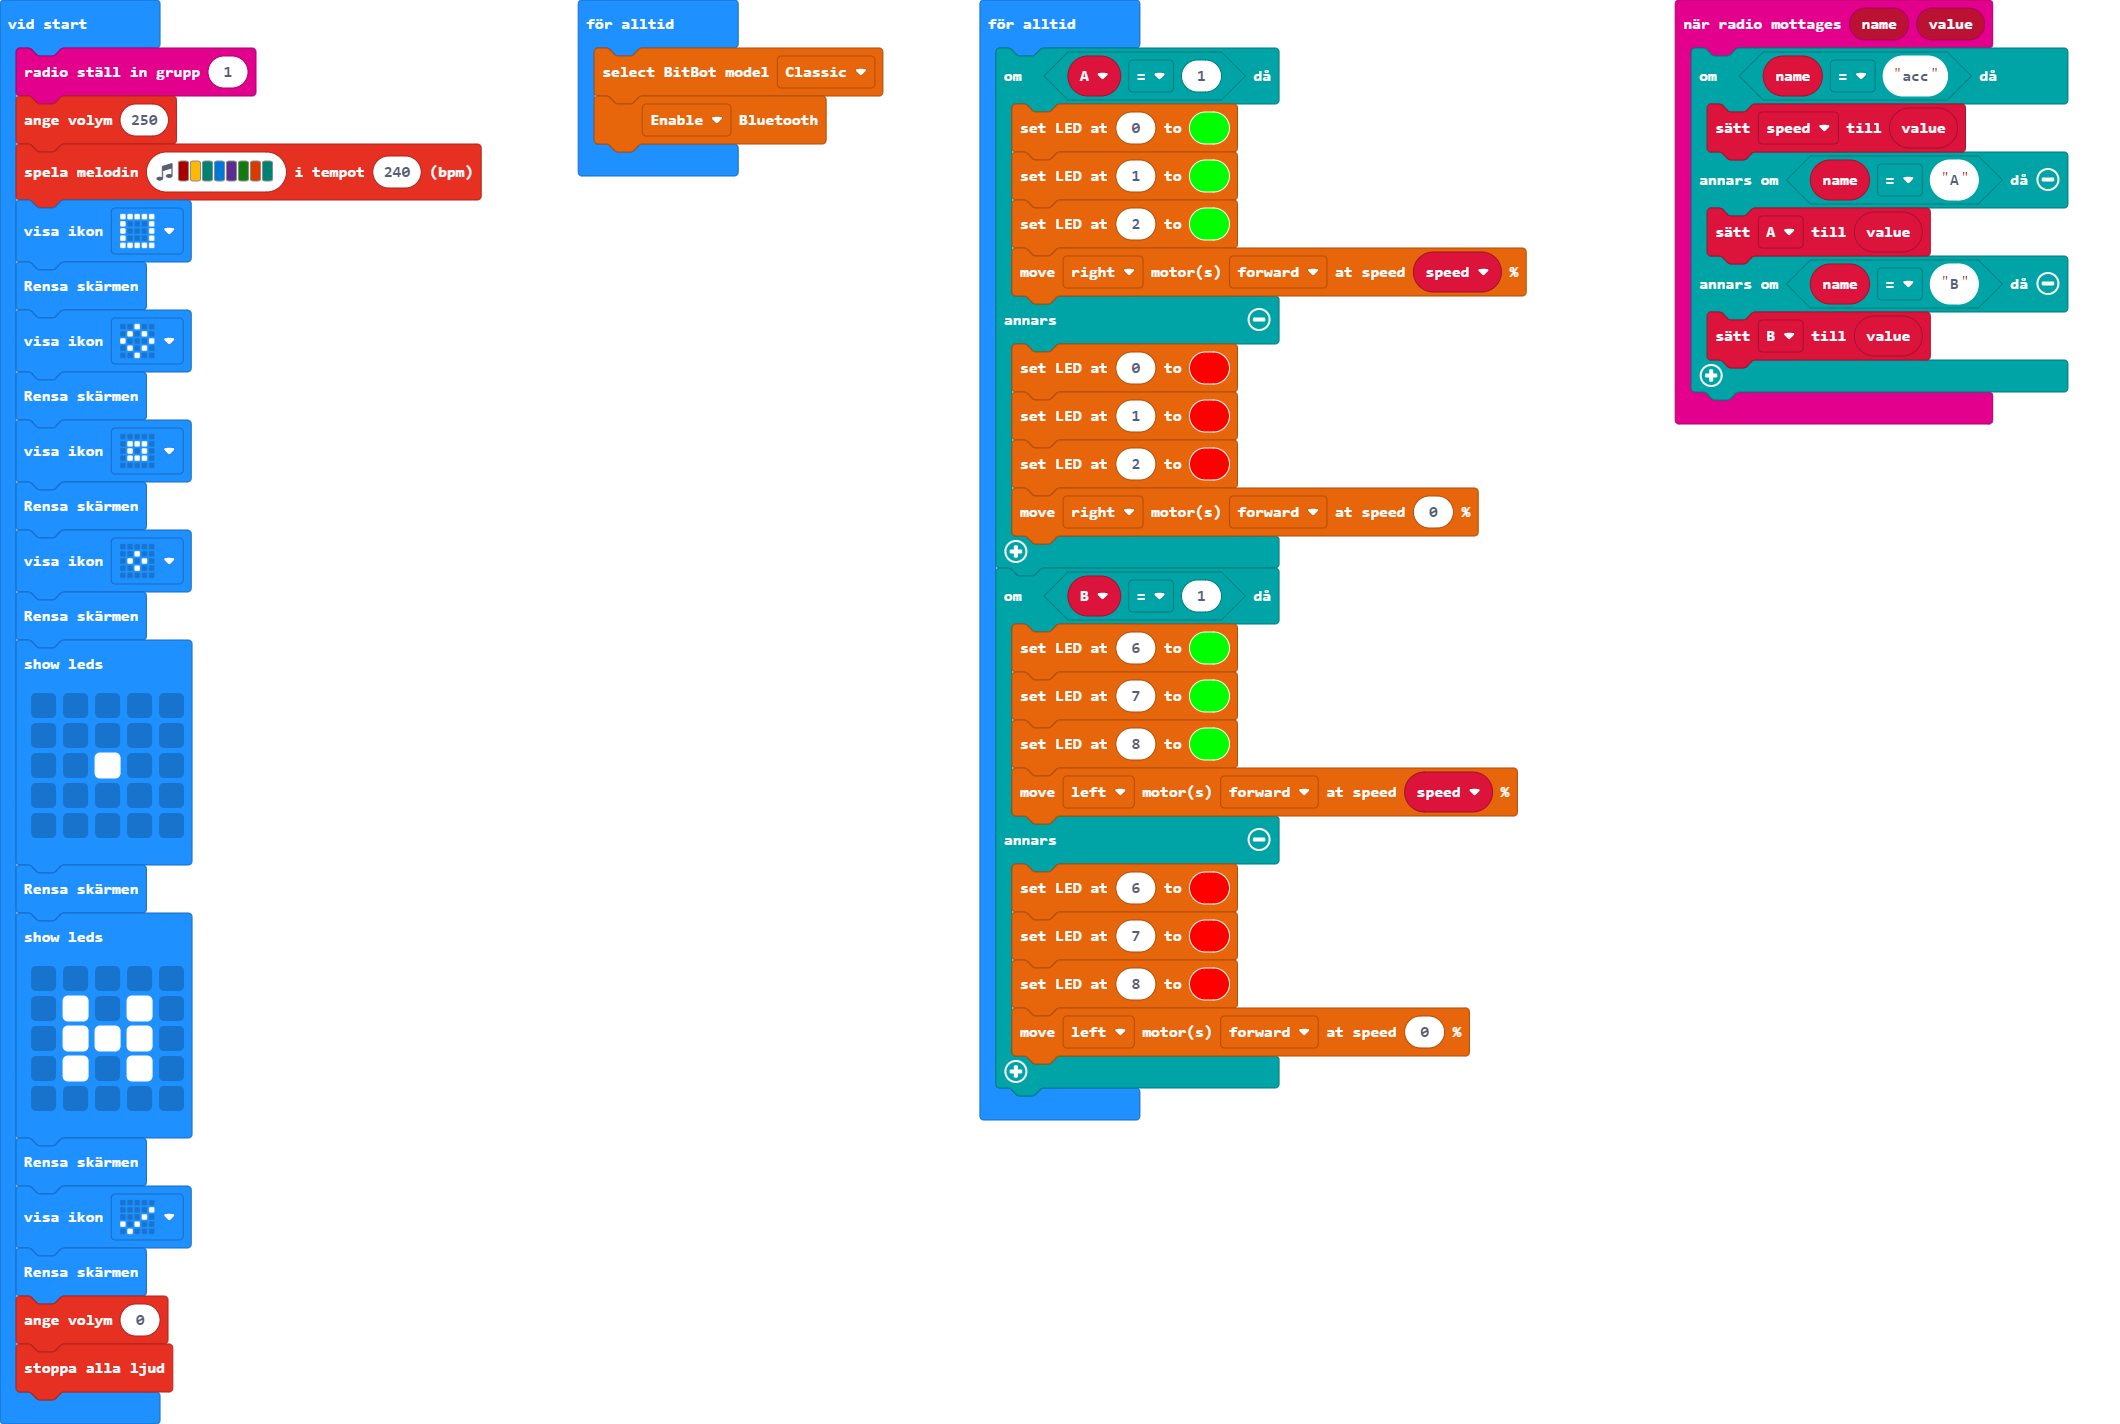
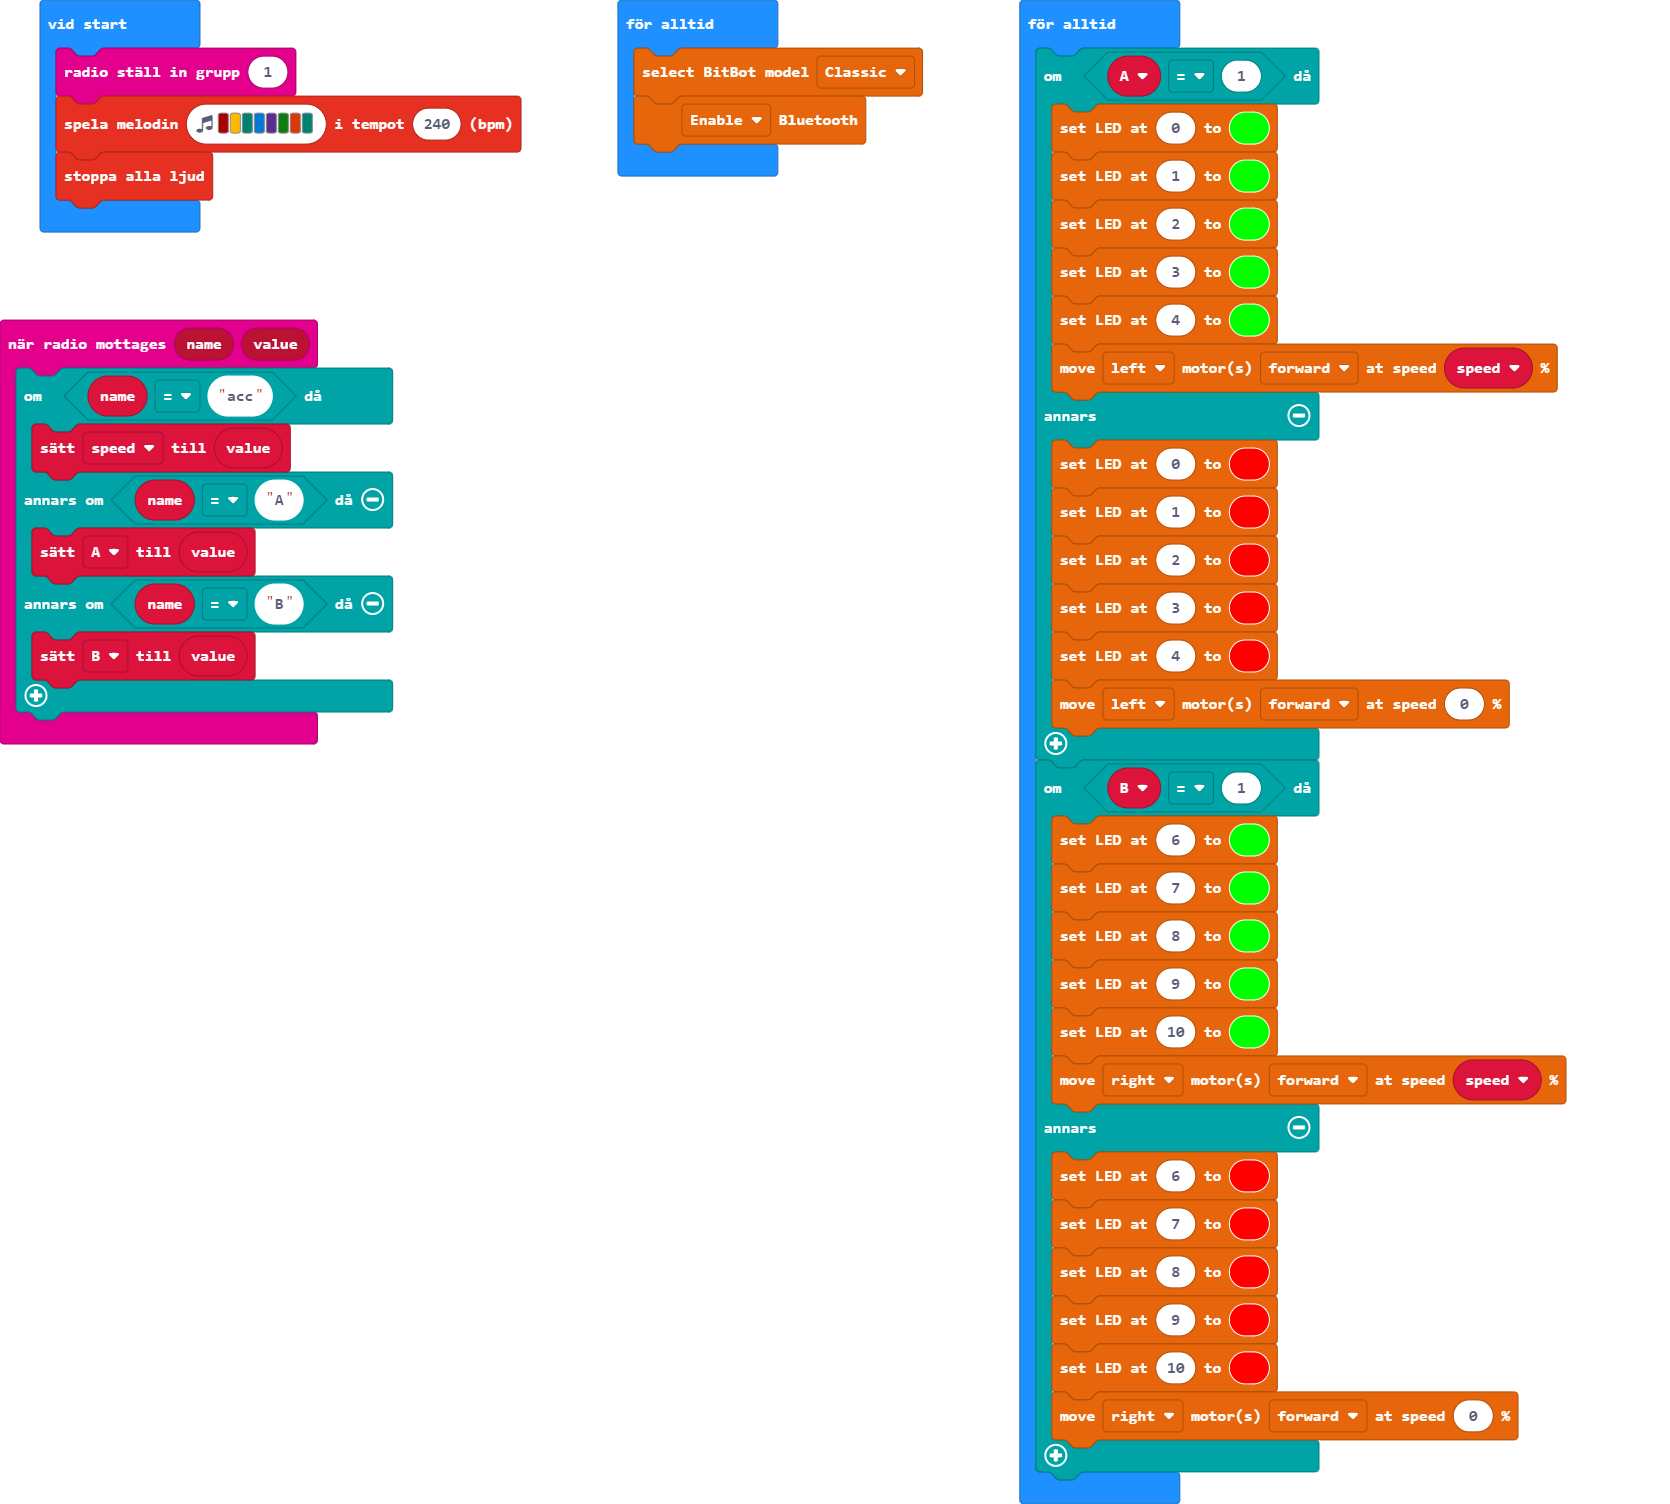
test

diff --git a/main.ts b/main.ts
@@ -11,35 +11,7 @@ let B = 0
 let A = 0
 let speed = 0
 radio.setGroup(1)
-music.setVolume(250)
 music.playMelody("C5 A F E D G B F ", 240)
-basic.showIcon(IconNames.Square)
-basic.clearScreen()
-basic.showIcon(IconNames.Diamond)
-basic.clearScreen()
-basic.showIcon(IconNames.SmallSquare)
-basic.clearScreen()
-basic.showIcon(IconNames.SmallDiamond)
-basic.clearScreen()
-basic.showLeds(`
-    . . . . .
-    . . . . .
-    . . # . .
-    . . . . .
-    . . . . .
-    `)
-basic.clearScreen()
-basic.showLeds(`
-    . . . . .
-    . # . # .
-    . # # # .
-    . # . # .
-    . . . . .
-    `)
-basic.clearScreen()
-basic.showIcon(IconNames.Yes)
-basic.clearScreen()
-music.setVolume(0)
 music.stopAllSounds()
 basic.forever(function () {
     bitbot.select_model(BBModel.Classic)
@@ -50,22 +22,30 @@ basic.forever(function () {
         bitbot.setPixelColor(0, 0x00FF00)
         bitbot.setPixelColor(1, 0x00FF00)
         bitbot.setPixelColor(2, 0x00FF00)
-        bitbot.move(BBMotor.Right, BBDirection.Forward, speed)
+        bitbot.setPixelColor(3, 0x00FF00)
+        bitbot.setPixelColor(4, 0x00FF00)
+        bitbot.move(BBMotor.Left, BBDirection.Forward, speed)
     } else {
         bitbot.setPixelColor(0, 0xFF0000)
         bitbot.setPixelColor(1, 0xFF0000)
         bitbot.setPixelColor(2, 0xFF0000)
-        bitbot.move(BBMotor.Right, BBDirection.Forward, 0)
+        bitbot.setPixelColor(3, 0xFF0000)
+        bitbot.setPixelColor(4, 0xFF0000)
+        bitbot.move(BBMotor.Left, BBDirection.Forward, 0)
     }
     if (B == 1) {
         bitbot.setPixelColor(6, 0x00FF00)
         bitbot.setPixelColor(7, 0x00FF00)
         bitbot.setPixelColor(8, 0x00FF00)
-        bitbot.move(BBMotor.Left, BBDirection.Forward, speed)
+        bitbot.setPixelColor(9, 0x00FF00)
+        bitbot.setPixelColor(10, 0x00FF00)
+        bitbot.move(BBMotor.Right, BBDirection.Forward, speed)
     } else {
         bitbot.setPixelColor(6, 0xFF0000)
         bitbot.setPixelColor(7, 0xFF0000)
         bitbot.setPixelColor(8, 0xFF0000)
-        bitbot.move(BBMotor.Left, BBDirection.Forward, 0)
+        bitbot.setPixelColor(9, 0xFF0000)
+        bitbot.setPixelColor(10, 0xFF0000)
+        bitbot.move(BBMotor.Right, BBDirection.Forward, 0)
     }
 })
